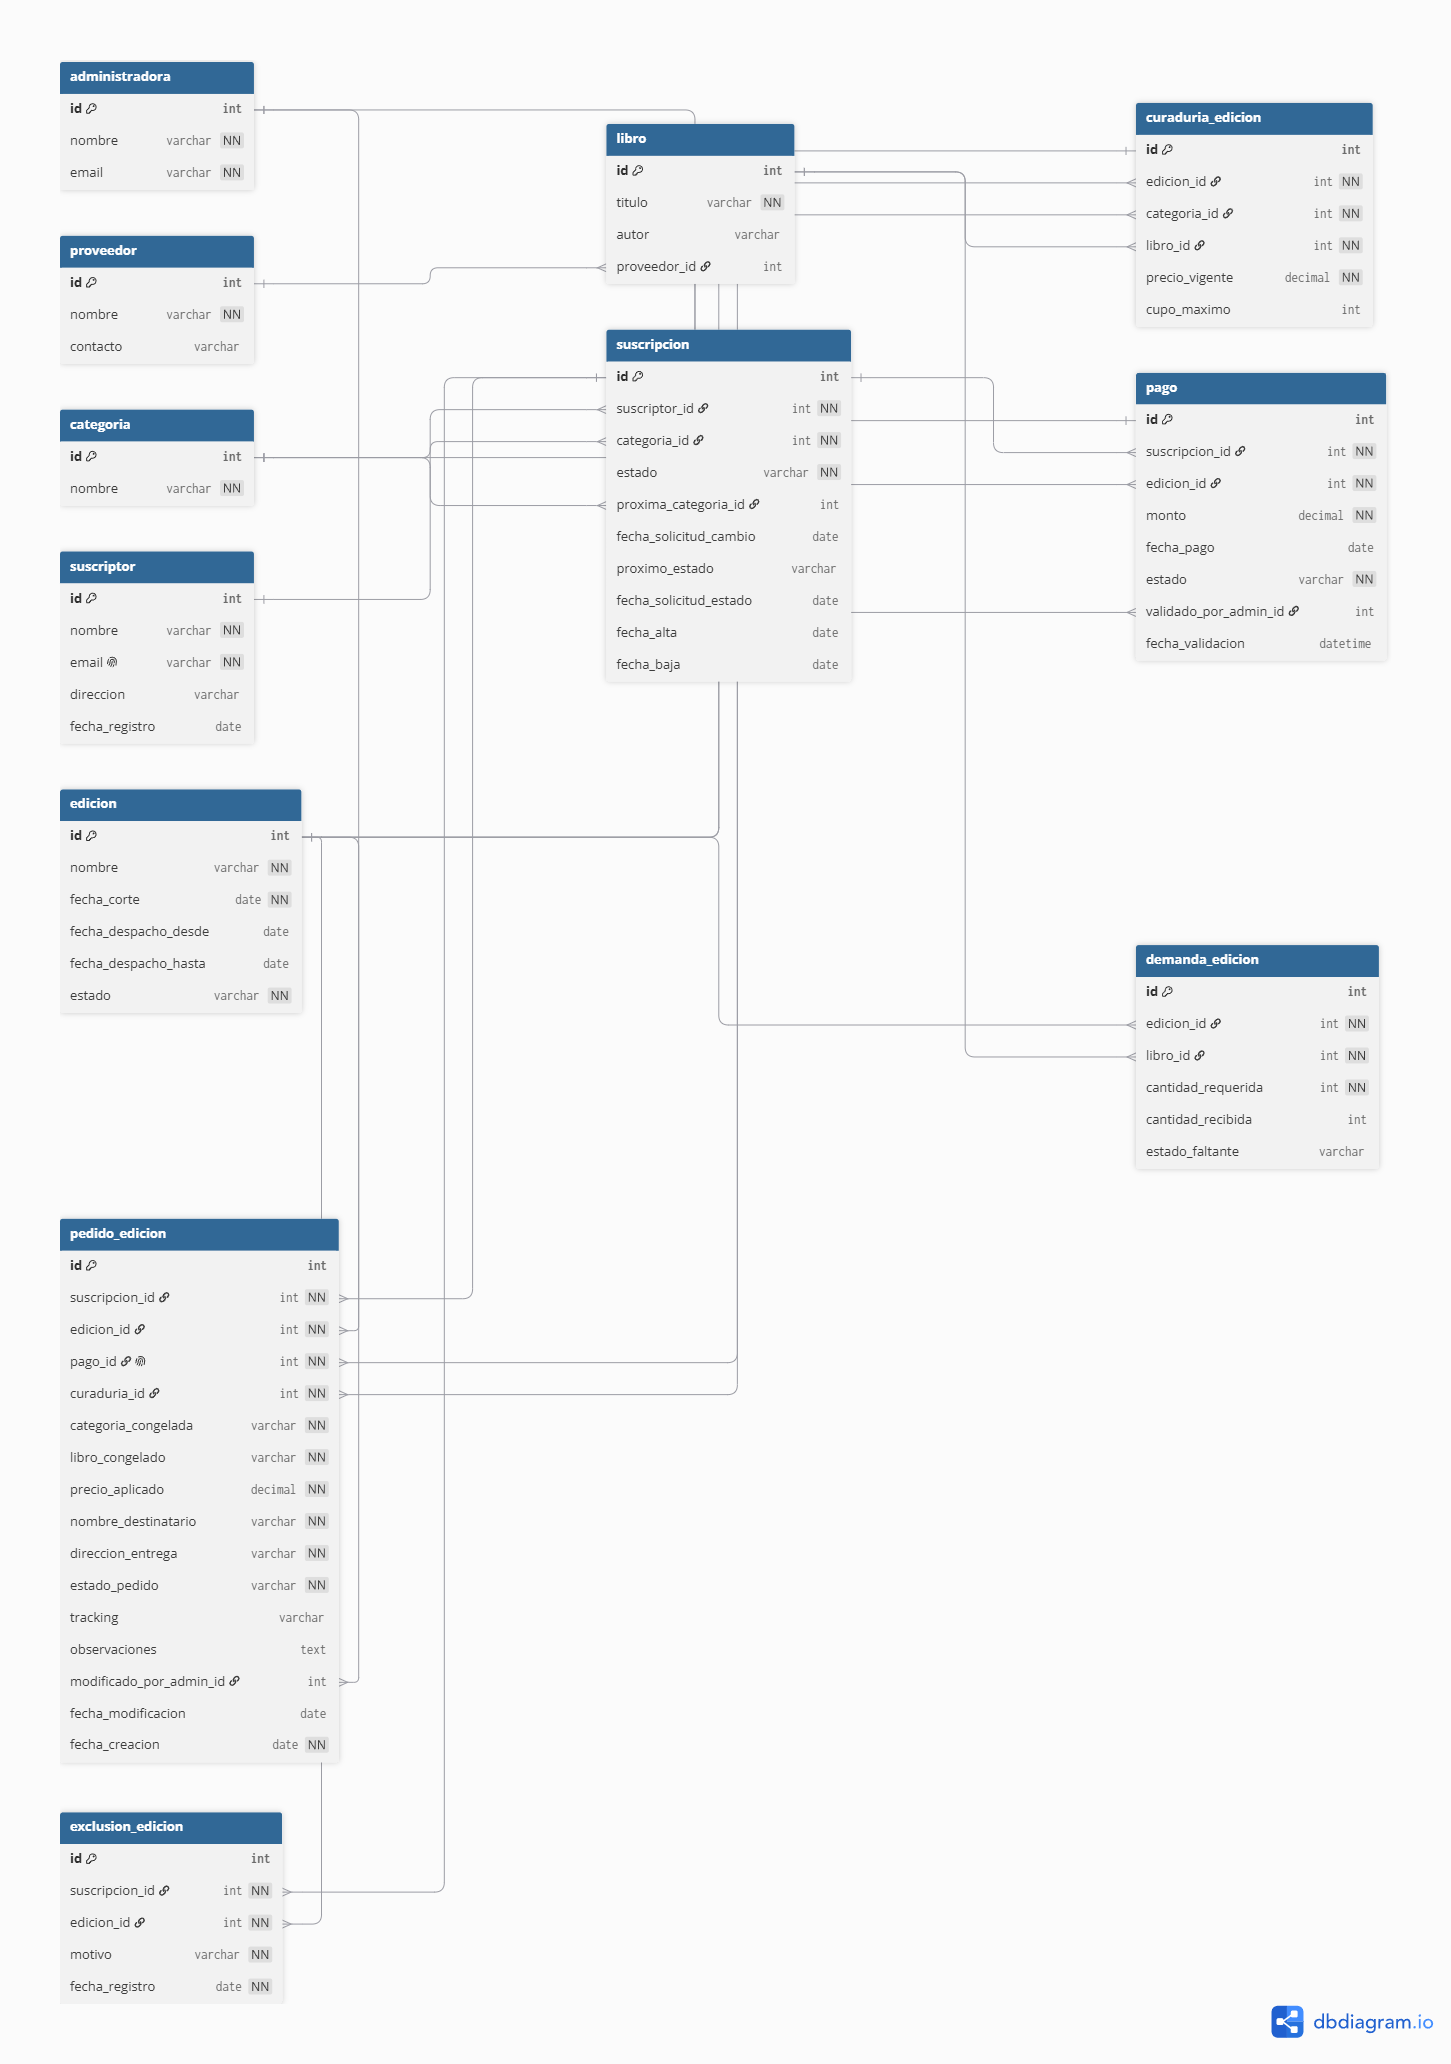
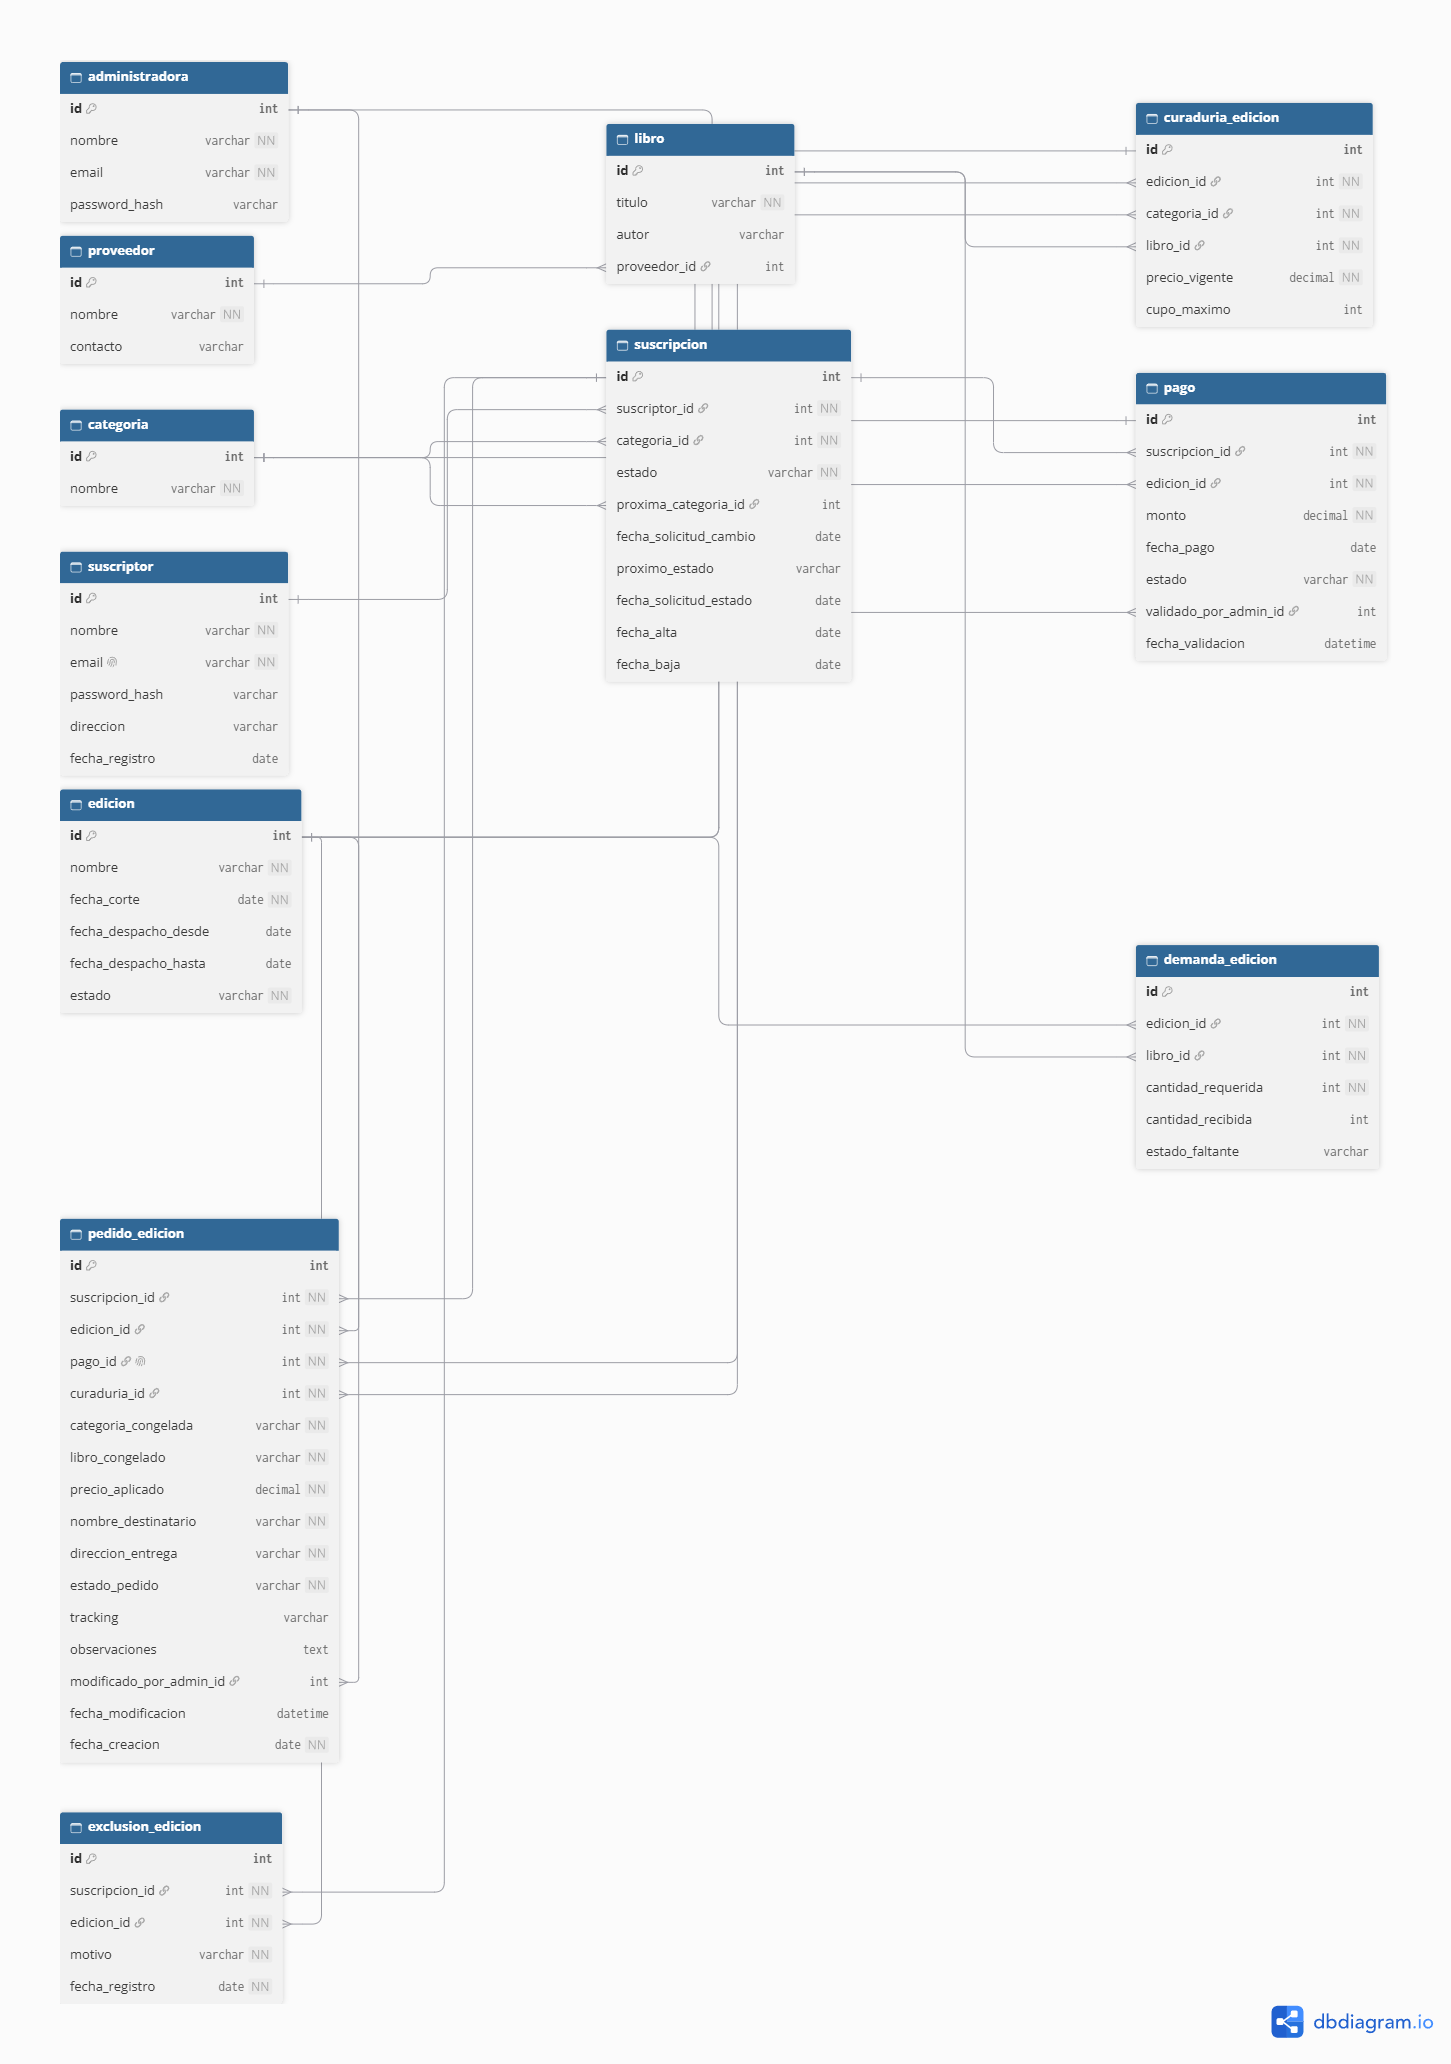
docs: documentar roles, registro y limitaciones de autenticación

diff --git a/docs/der.md b/docs/der.md
@@ -12,7 +12,7 @@ La decisión principal que organiza esta etapa de modelado es la separación ent
 
 | Entidad | Descripción | Atributos |
 |---|---|---|
-| Suscriptor | Persona que se suscribe a una o más cajas temáticas. | id, nombre, email (único), direccion, fecha_registro |
+| Suscriptor | Persona que se suscribe a una o más cajas temáticas. | id, nombre, email (único), password_hash, direccion, fecha_registro |
 | Administradora | Rol interno de la emprendedora; valida pagos y gestiona stock/despacho. | id, nombre, email, password_hash |
 | Categoria | Línea temática fija de las cajas (una de las 4 disponibles). | id, nombre (Misterio/Terror, Romance, Narrativa/Drama, Sorpresa) |
 | Libro | Título curado que puede integrar una caja en alguna edición. | id, titulo, autor, proveedor_id |
@@ -67,8 +67,8 @@ La decisión principal que organiza esta etapa de modelado es la separación ent
 - **Unicidad del pago (P0):** existe como máximo un `Pago` por `Suscripcion` y `Edicion` (restricción `UNIQUE (suscripcion_id, edicion_id)` en la base, además del chequeo previo en el service). El monto es obligatorio y mayor a cero. Solo se registran pagos para una edición `ABIERTA` y una suscripción `ACTIVA`. Un pago se valida una única vez (la fecha y hora de validación define la prioridad por cupo y no puede pisarse) y no se puede validar un pago de una edición que ya no está abierta. El monto no se compara contra el `precio_vigente` de la curaduría (ver la nota siguiente).  
 - **Precio único por edición (simplificación P0):** en esta etapa se adopta, con acuerdo del tutor, la simplificación de que las cuatro categorías de una misma edición tienen el mismo precio. El precio se sigue guardando por curaduría (`precio_vigente` en `CuraduriaEdicion`) y se congela en `PedidoEdicion.precio_aplicado`, lo que permite que cambie de un mes a otro sin afectar los pedidos ya cerrados. Gracias a esta simplificación, al registrar un pago no hace falta validar que el monto coincida con el precio de la categoría de la suscripción, ya que es el mismo para todas; la administradora controla el pago al validarlo manualmente en el panel de conciliación. Si en el futuro las categorías tuvieran precios distintos, habría que agregar esa validación en el registro del pago, tomando el `precio_vigente` de la curaduría correspondiente a la categoría que rija para esa edición.
 - **Cierre por edición (P0):** el corte es una operación manual sobre una edición puntual, identificada por id (`POST /api/ediciones/{id}/cierre`), y no sobre "la que esté abierta". Un id inexistente responde 400; una edición que ya no está `ABIERTA` (o que ya tiene pedidos generados) responde 409. Ante dos solicitudes de cierre simultáneas, la edición se lee con bloqueo de escritura (SELECT ... FOR UPDATE): la segunda espera a que termine la primera y encuentra la edición ya cerrada, por lo que no puede congelar el mismo padrón dos veces.  
-- **Unicidad de suscriptor por email:** `Suscriptor.email` va a tener una restricción `UNIQUE` a nivel de base de datos. Esto permite que el alta de una suscripción identifique al suscriptor por email de forma automática (find-or-create): si el email ya existe se reutiliza el `Suscriptor` existente, y si no existe se crea uno nuevo, evitando registros duplicados de la misma persona. Si el email ya existe, los datos que llegan en el alta (nombre y, si viene completa, dirección) actualizan los del suscriptor, porque se toman como los vigentes de esa persona; un dato que llega vacío no borra el anterior. La actualización se aplica recién cuando el alta pasó todas sus validaciones, así que un alta rechazada (por ejemplo, por cupo completo) no modifica al suscriptor. Esto no afecta el historial: cada `PedidoEdicion` congela en el corte el nombre del destinatario y la dirección de entrega, de modo que los pedidos ya cerrados conservan los datos de ese momento y solo las ediciones siguientes usan los nuevos.  
-- **Autenticación de la administradora (P0):** `Administradora` incorpora `password_hash` (hash BCrypt; nunca se guarda la contraseña en texto plano). La columna admite NULL: una administradora sin contraseña configurada no puede iniciar sesión, y la contraseña inicial se establece al arrancar el backend con `ADMIN_EMAIL` y `ADMIN_PASSWORD` (ver [`autenticacion.md`](./autenticacion.md)). El rol no se guarda en la base: toda `Administradora` tiene rol ADMIN, que viaja en el token JWT y habilita las rutas de administración. Al ser el único rol del sistema, no se modeló una entidad de usuarios o roles.
+- **Unicidad de suscriptor por email:** `Suscriptor.email` tiene una restricción `UNIQUE` a nivel de base de datos. El suscriptor se crea una sola vez, con el registro (`POST /api/auth/registro`); un email repetido es un error 409 y ya no existe el find-or-create en el alta de suscripciones. El alta de una suscripción identifica al suscriptor por la sesión (el email del token). Nombre y dirección se actualizan desde el perfil (`PATCH /api/suscriptores/mi-perfil`) y el cambio solo afecta a las ediciones siguientes: cada `PedidoEdicion` congela en el corte el nombre del destinatario y la dirección de entrega, de modo que los pedidos ya cerrados conservan los datos de ese momento y solo las ediciones siguientes usan los nuevos.  
+- **Autenticación y roles (P0):** `Administradora` y `Suscriptor` incorporan `password_hash` (hash BCrypt; nunca se guarda la contraseña en texto plano). La columna admite NULL: una administradora sin contraseña configurada no puede iniciar sesión, y la contraseña inicial se establece al arrancar el backend con `ADMIN_EMAIL` y `ADMIN_PASSWORD` (ver [`autenticacion.md`](./autenticacion.md)). En `Suscriptor`, el NULL corresponde a las cuentas creadas antes del registro, que no pueden ingresar. El rol no se guarda en la base: las filas de `Administradora` tienen rol `ADMIN` y las de `Suscriptor` rol `SUSCRIPTOR`, y viaja en el token JWT. Un mismo email no puede existir en ambas tablas (lo controla el registro). Con dos roles definidos por la tabla de origen de la cuenta, no se modeló una entidad de usuarios o roles.
 
 ---
 

diff --git a/docs/autenticacion.md b/docs/autenticacion.md
@@ -1,8 +1,8 @@
-# Autenticación de la administradora
+# Autenticación y roles
 
 `POST /api/auth/login` valida el email y la contraseña (guardada como hash BCrypt) y devuelve un token JWT firmado con `JWT_SECRET`. El frontend guarda la sesión en `localStorage` y envía el token en cada pedido como `Authorization: Bearer <token>`. El backend valida el token en cada request a una ruta de administración.
 
-El backend protege las rutas de administración con JWT y rol `ADMIN`.
+Hay dos roles: **ADMIN** (la administradora) y **SUSCRIPTOR**. `POST /api/auth/login` valida el email y la contraseña (guardada como hash BCrypt) contra ambas tablas y devuelve un token JWT firmado con `JWT_SECRET`, con el rol adentro. `POST /api/auth/registro` crea la cuenta de un suscriptor y devuelve el token (queda logueado). El frontend guarda la sesión en `localStorage` y envía el token en cada pedido como `Authorization: Bearer <token>`. El backend valida el token en cada request a una ruta protegida.
 
 ## Variables de entorno
 | Variable | Uso |
@@ -15,18 +15,29 @@ El backend protege las rutas de administración con JWT y rol `ADMIN`.
 
 `ADMIN_PASSWORD` solo se aplica la primera vez: si la administradora ya tiene contraseña, cambiar la variable no la actualiza. Para resetearla, poner `password_hash` en NULL en esa fila de `administradora` y reiniciar el backend.
 
-Si la base ya existía antes de este cambio, correr una vez:
-`ALTER TABLE administradora ADD COLUMN password_hash VARCHAR(100) NULL;`
-
 ## Cómo ingresar
-Entrar a `/login.html` (o al enlace "Ingresar" del inicio) con `ADMIN_EMAIL` y `ADMIN_PASSWORD`. El token dura 120 minutos.
+- **Administradora:** `/login.html` con `ADMIN_EMAIL` y `ADMIN_PASSWORD`.
+- **Suscriptor:** se registra en `/registro.html` (nombre, email, contraseña de 8 a 72 caracteres y dirección de entrega) o ingresa en `/login.html`.
+El token dura 120 minutos.
+
+## Base de datos existente
+Si la base ya existía antes de estos cambios, correr una vez:
+`ALTER TABLE administradora ADD COLUMN password_hash VARCHAR(100) NULL;`
+`ALTER TABLE suscriptor ADD COLUMN password_hash VARCHAR(100) NULL;`
+Los suscriptores creados antes del registro no tienen contraseña y no pueden ingresar (se borran o se vuelven a crear con el registro).
+
 
 ## Rutas
-- **Públicas:** `POST /api/auth/login`, `GET /api/categorias`, `GET /api/ediciones` (a quien no es ADMIN solo le devuelve la edición abierta), `GET /api/ediciones/{id}/curadurias`, `POST /api/suscripciones`, `PATCH /api/suscripciones/**`, `POST /api/pagos`.
-- **Solo ADMIN:** `POST /api/ediciones`, `POST /api/ediciones/{id}/cierre`, `GET /api/pagos/pendientes`, `PATCH /api/pagos/{id}/validar`, `GET /api/ediciones/{id}/demanda`, `PATCH /api/demanda/{id}/recepcion`, `GET /api/ediciones/{id}/pedidos`, `PATCH /api/pedidos/{id}/estado`, `GET /api/pedidos/{id}/remito`.
-- Cualquier ruta nueva queda protegida por defecto (401) hasta que se la declare pública.
+| Acceso | Rutas |
+|---|---|
+| Público | `POST /api/auth/login`, `POST /api/auth/registro`, `GET /api/categorias`, `GET /api/ediciones` (a quien no es ADMIN solo le devuelve la edición abierta), `GET /api/ediciones/{id}/curadurias` |
+| SUSCRIPTOR | `POST /api/suscripciones`, `GET /api/suscripciones/mis-suscripciones`, `PATCH /api/suscripciones/{id}/baja\|pausa\|reanudar\|categoria` (solo sobre las propias), `POST /api/pagos` (solo sobre suscripciones propias), `GET` y `PATCH /api/suscriptores/mi-perfil` |
+| ADMIN | `POST /api/ediciones`, `POST /api/ediciones/{id}/cierre`, `GET /api/pagos/pendientes`, `PATCH /api/pagos/{id}/validar`, `GET /api/ediciones/{id}/demanda`, `PATCH /api/demanda/{id}/recepcion`, `GET /api/ediciones/{id}/pedidos`, `PATCH /api/pedidos/{id}/estado`, `GET /api/pedidos/{id}/remito` |
+- Cualquier ruta nueva queda reservada a ADMIN (403 para un suscriptor, 401 sin sesión) hasta que se la declare explícitamente.
 
 ## Alcance y limitaciones
-- En esta etapa solo existe el rol ADMIN. Las suscripciones y pagos del suscriptor son públicos.
-- No hay refresh token, recuperación de contraseña ni límite de intentos de login.
-- El token se guarda en `localStorage`. El guard del frontend es solo comodidad de interfaz: la protección real está en el backend.
+- Un suscriptor solo puede operar sobre sus propias suscripciones y pagos: si el id es de otra persona (o no existe) responde 403.
+- Un email no puede ser a la vez de una administradora y de un suscriptor.
+- El registro revela si un email ya está registrado (409).
+- No hay refresh token, recuperación de contraseña, verificación de email ni límite de intentos de login.
+- El token se guarda en `localStorage` (expuesto a XSS). El guard del frontend es solo comodidad de interfaz: la protección real está en el backend.

diff --git a/README.md b/README.md
@@ -95,7 +95,7 @@ Todo el ciclo de suscripciones se gestiona hoy de forma manual mediante WhatsApp
 * **Validación manual de pagos:** Panel de conciliación para que las administradoras verifiquen transferencias y habiliten los pedidos antes del día 21.  
 * **Panel de despacho:** Armado de pedidos, generación de remito interno, carga manual de código de seguimiento y actualización de estados del envío (Pendiente de empaque → Empaquetado → Despachado → Entregado).  
 * **Historial de suscriptor:** Registro relacional de pedidos previos para prevenir repetición involuntaria de títulos.  
-* **Acceso de la administradora:** login con JWT; las rutas de administración (validación de pagos, cierre de edición, demanda) requieren sesión y el resto de la plataforma es pública.
+* **Acceso por rol:** registro y login con JWT. La administradora (ADMIN) accede a las rutas de administración (validación de pagos, cierre de edición, demanda, despacho y remitos); el suscriptor (SUSCRIPTOR) se registra e inicia sesión para suscribirse y gestionar solo sus propias suscripciones. El inicio y las ediciones son públicos. Detalle en [`docs/autenticacion.md`](./docs/autenticacion.md).
 
 ### Nice to have (si sobra tiempo dentro del cronograma)  
 * **Recordatorios y avisos automáticos por correo:** Alertas preventivas programadas. Por ejemplo, recordatorio el día 17 sobre el vencimiento del plazo de pago el día 20 y aviso automático el día 21 informando si la suscripción ingresó a la edición o quedó pospuesta para el mes entrante por falta de pago. *(Nota: En el MVP, esta información se consulta de forma pasiva directamente en el panel web del suscriptor).*
